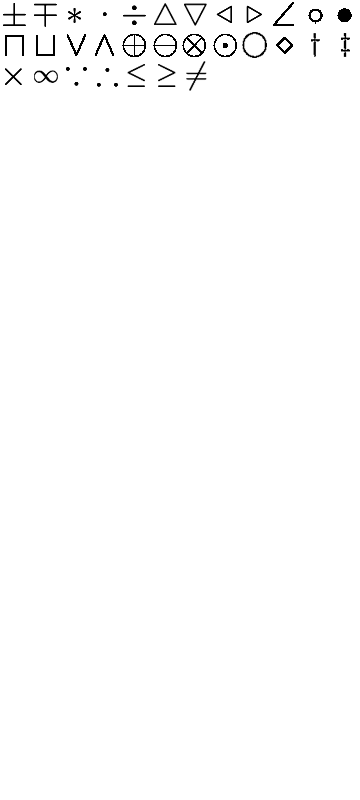
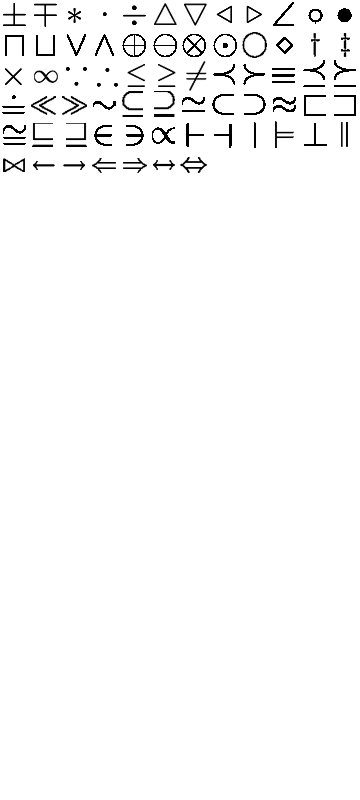
修改板面。。。。。。

diff --git a/trunk/ math-duodaa/blog/ckeditor/plugins/duodaa_math/dialogs/mathdialog.html b/trunk/ math-duodaa/blog/ckeditor/plugins/duodaa_math/dialogs/mathdialog.html
@@ -110,17 +110,21 @@ var duodaaMath = [
 			"\\sum^{}_{n}","\\sum","\\log_{}","\\ln","\\int_{}^{}","\\oint_{}^{}"
 		],
 		[
-			"\\alpha","\\beta","\\gamma","\\delta","\\varepsilon","\\varphi","\\lambda","\\mu",
-			"\\rho","\\sigma","\\omega","\\Gamma","\\Delta","\\Theta","\\Lambda","\\Xi",
-			"\\Pi","\\Sigma","\\Upsilon","\\Phi","\\Psi","\\Omega"
-		],
-		[
 			"\\pm","\\mp","\\ast","\\cdot","\\div","\\bigtriangleup","\\bigtriangledown",
 			"\\triangleleft","\\triangleright",			
 			"\\angle","\\circ","\\bullet","\\sqcap","\\sqcup","\\vee","\\wedge","\\oplus","\\ominus","\\otimes",
 			"\\odot","\\bigcirc ","\\diamond","\\dagger","\\ddagger","\\times","\\infty","\\because","\\therefore",
-			"\\le","\\ge","\\neq"
-			
+			"\\le","\\ge","\\ne","\\prec","\\succ","\\equiv","\\preceq","\\succeq","\\doteq","\\ll","\\gg","\\sim",
+			"\\subseteq","\\supseteq","\\simeq","\\subset","\\supset","\\approx","\\sqsubset","\\sqsupset","\\cong",
+			"\\sqsubseteq","\\sqsupseteq","\\in","\\ni","\\propto","\\vdash","\\dashv","\\mid","\\models","\\perp",
+			"\\parallel","\\bowtie","\\leftarrow","\\rightarrow","\\Leftarrow","\\Rightarrow",
+			"\\leftrightarrow","\\Leftrightarrow"
+		],
+		
+		[
+			"\\alpha","\\beta","\\gamma","\\delta","\\varepsilon","\\varphi","\\lambda","\\mu",
+			"\\rho","\\sigma","\\omega","\\Gamma","\\Delta","\\Theta","\\Lambda","\\Xi",
+			"\\Pi","\\Sigma","\\Upsilon","\\Phi","\\Psi","\\Omega"
 		]
 	];
 	
@@ -131,6 +135,7 @@ $(".math_panel .math_type").click( function(){
 	                                              $(".math_show_buttons").html(ger_panel($(this).index(),"show"));
 												  $(".math_hide_buttons").html(ger_panel($(this).index(),"hide"));
 												  $(".math_panel .math_type").css("color","#000");
+												  $(".math_panel .math_type").css("font-weight","");
 												  $(this).css("color","#F96");
 												  $(this).css("font-weight","bold");
 												  
